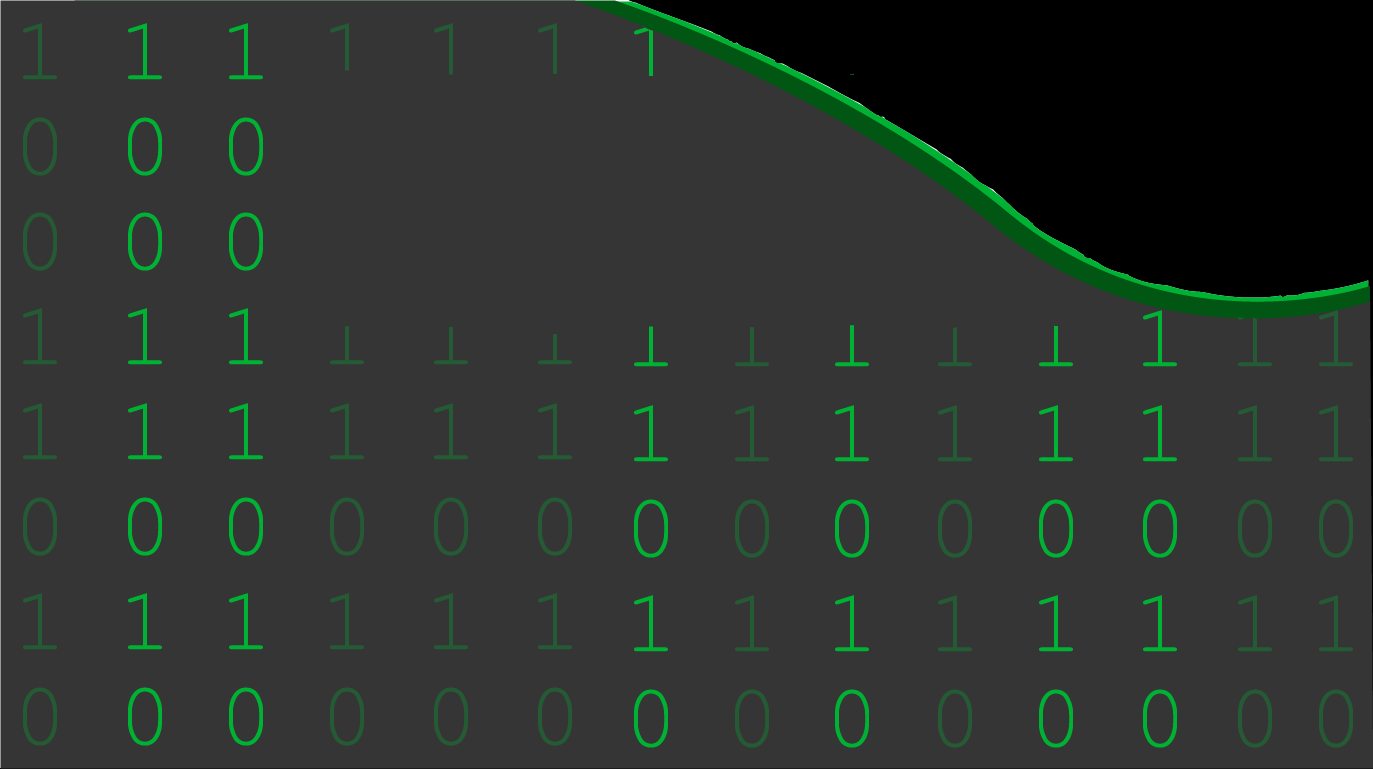
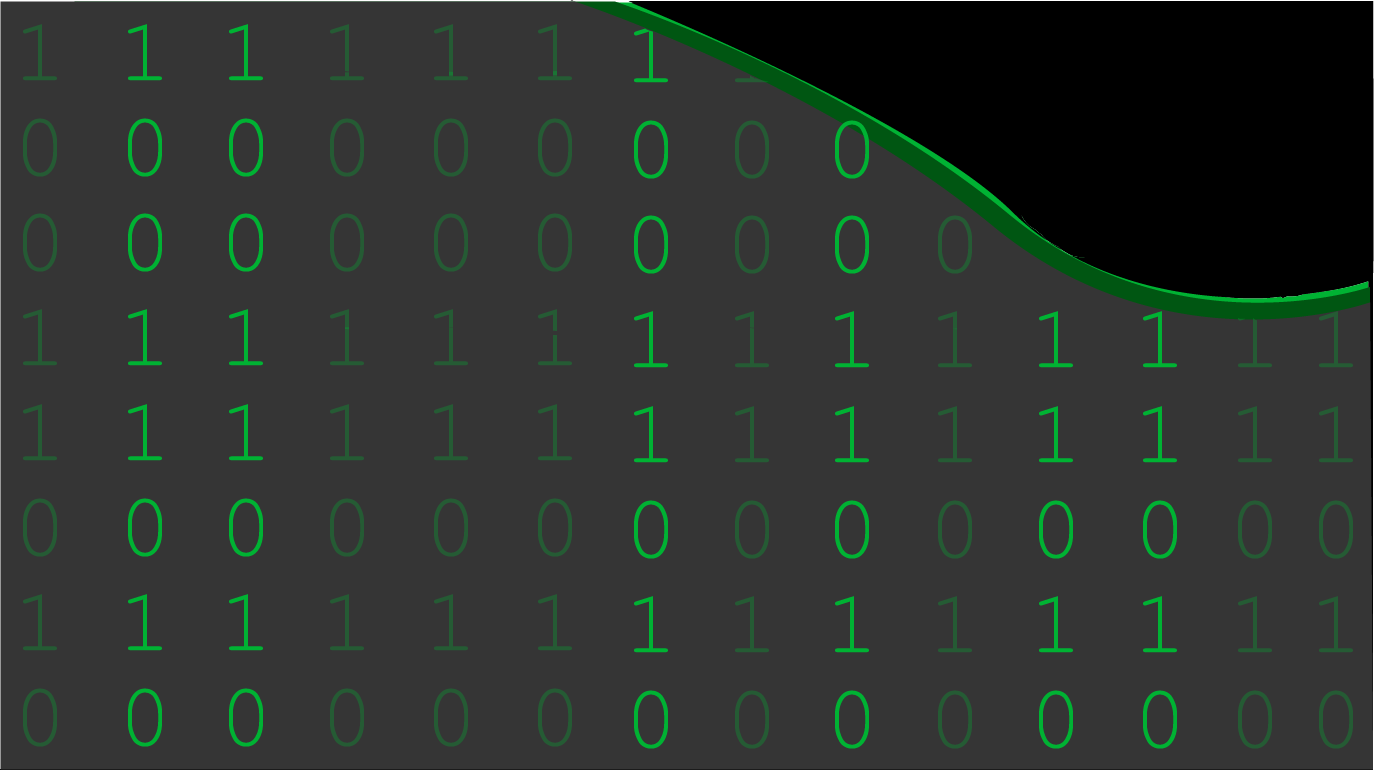
background updates

diff --git a/script.js b/script.js
@@ -1,6 +1,6 @@
 console.log('reading js');
 
-var tParent = 255, cSize = 0;
+//var tParent = 255, cSize = 0;
 
 /*ar cCircle = {
   x:mouseX;
@@ -8,18 +8,21 @@ var tParent = 255, cSize = 0;
   noFill();
 }*/
 
-function setup(){
+/*function setup() {
 
   var myCanvas = createCanvas(800,250);
   myCanvas.parent('mySketch');
   noFill();
 
-}
+}*/
 //connect myCanvas to mySketch
-function draw(){
-
-
-  if(cSize < 350){
+//function draw() {
+    var string = "Welcome to My Portal.";
+    var typeString = string.split("");
+    var mydiv = document.getElementById('mySketch');
+    mydiv.addEventListener("mouseover", animate);
+    mydiv.addEventListener("mouseout", stopAnimate);
+  /*if(cSize < 350){
     tParent--;
     ellipse(mouseX, mouseY, cSize, cSize);
     noFill();
@@ -30,6 +33,13 @@ function draw(){
     noFill();
 
 
-  }
+  }*/
 
+//}
+function animate() {
+    typeString.length > 0 ? mydiv.innerHTML += typeString.shift() : clearTimeout(running); 
+    var running = setTimeout(animate, 90);
+}
+function stopAnimate() {
+    mydiv.innerHTML = "";
 }

diff --git a/styles.css b/styles.css
@@ -2,16 +2,33 @@ html{
   width: 1366px;
   height: 768px;
   background-color: #494949;
-  background-image: url('image/portal.png');
-  background-repeat: no-repeat;
-  background-size: cover;
 
+
+}
+#bg {
+  /* Set rules to fill background */
+  min-height: 100%;
+  min-width: 1024px;
+z-index: -1;
+  /* Set up proportionate scaling */
+  width: 100%;
+  height: auto;
+	
+  /* Set up positioning */
+  position: fixed;
+  top: 0;
+  left: 0;
 }
 #mySketch {
     width: 800px;
     height: 250px;
+    padding: 20px;
+    color: white;
     border: 3px solid black;
     margin: 15px auto;
+    font-family: 'Source Code Pro', monospace;
+    font-size: 120px;
+
 
 
 }
@@ -19,7 +36,7 @@ h1{
   text-align: right;
 
   font-size: 4.5vw;
-  font-family: 'Coiny', cursive;
+  font-family: 'Source Code Pro', monospace;
   margin-right: 5px;
   margin-bottom: .5px;
   color:#05D627;

diff --git a/index.html b/index.html
@@ -4,11 +4,14 @@
     <meta charset="utf-8">
     <title>Sabrina Baggett Portal</title>
     <link href="https://necolas.github.io/normalize.css/8.0.1/normalize.css" rel="stylesheet" />
-    <link href="https://fonts.googleapis.com/css?family=Coiny" rel="stylesheet">
+    <link href="https://fonts.googleapis.com/css?family=Source+Code+Pro" rel="stylesheet">
     <link rel="stylesheet" type="text/css" href="styles.css" >
     <script src="https://cdnjs.cloudflare.com/ajax/libs/p5.js/0.7.2/p5.js"></script>
+    <script src="https://ajax.googleapis.com/ajax/libs/jquery/3.3.1/jquery.min.js"></script>
+
   </head>
   <body>
+      <img id="bg" src="image/portal.png">
     <header>
       <h1>Sabrina Baggett</h1>
       <div id="mySketch">
